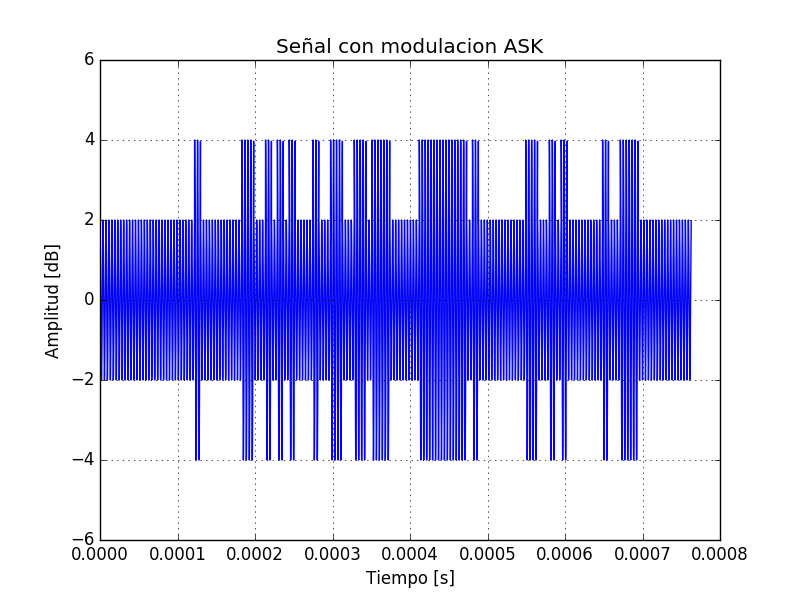
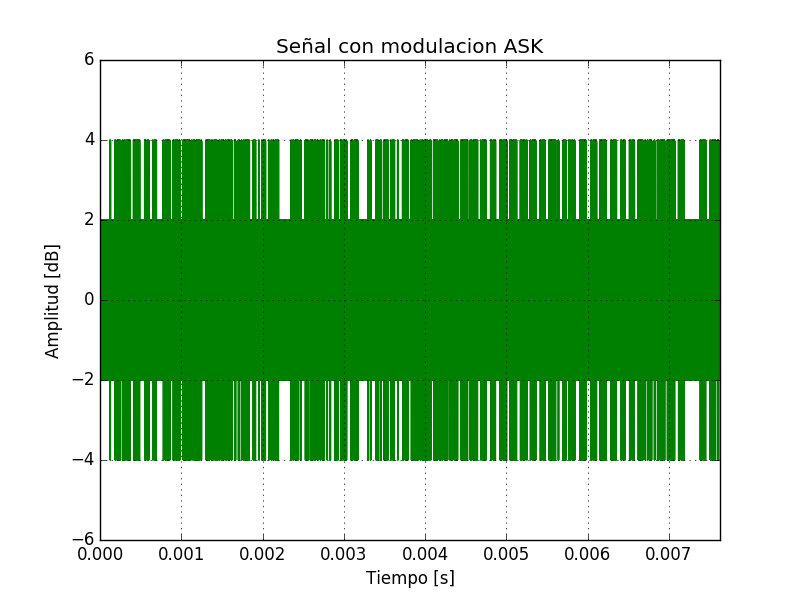
lab listo

diff --git a/Laboratorio_4.py b/Laboratorio_4.py
@@ -97,8 +97,10 @@ def graphDigitalData(binSignal, duration, sample, bps, title):
                 for j in range(0, bps):
                         binFixed.append(i)
         t = linspace(0, duration, len(binFixed))
-        plt.plot(t[:sample*bps], binFixed[:sample*bps])
+        t = t[:sample*bps]
+        plt.plot(t, binFixed[:sample*bps])
         plt.ylim(0, 2)
+        plt.xlim(0, t[-1])
         plt.xlabel('Tiempo [s]');
         plt.ylabel('Amplitud [dB]');
         plt.title(title);
@@ -116,8 +118,9 @@ Entrada:
 """
 def graphData(data, time, sample, bps, title):
         total = sample * bps
-        plt.plot(time[0:total], data[0:total])
+        plt.plot(time[0:total], data[0:total], color = "green")
         plt.ylim(-6, 6)
+        plt.xlim(0, time[total])
         plt.xlabel('Tiempo [s]')
         plt.ylabel('Amplitud [dB]')
         plt.title(title)
@@ -189,7 +192,6 @@ totalTime = len(data)/rate
 #       2. Binarizar audio
 print("> Binarización de audio")
 dataBin = arrayToBin(data)
-print(len(dataBin))
 graphDigitalData(dataBin, totalTime, sample, bps, "Señal digital")
 #       3. Aplicar modulacion ASK
 print("> Modulación ASK")
